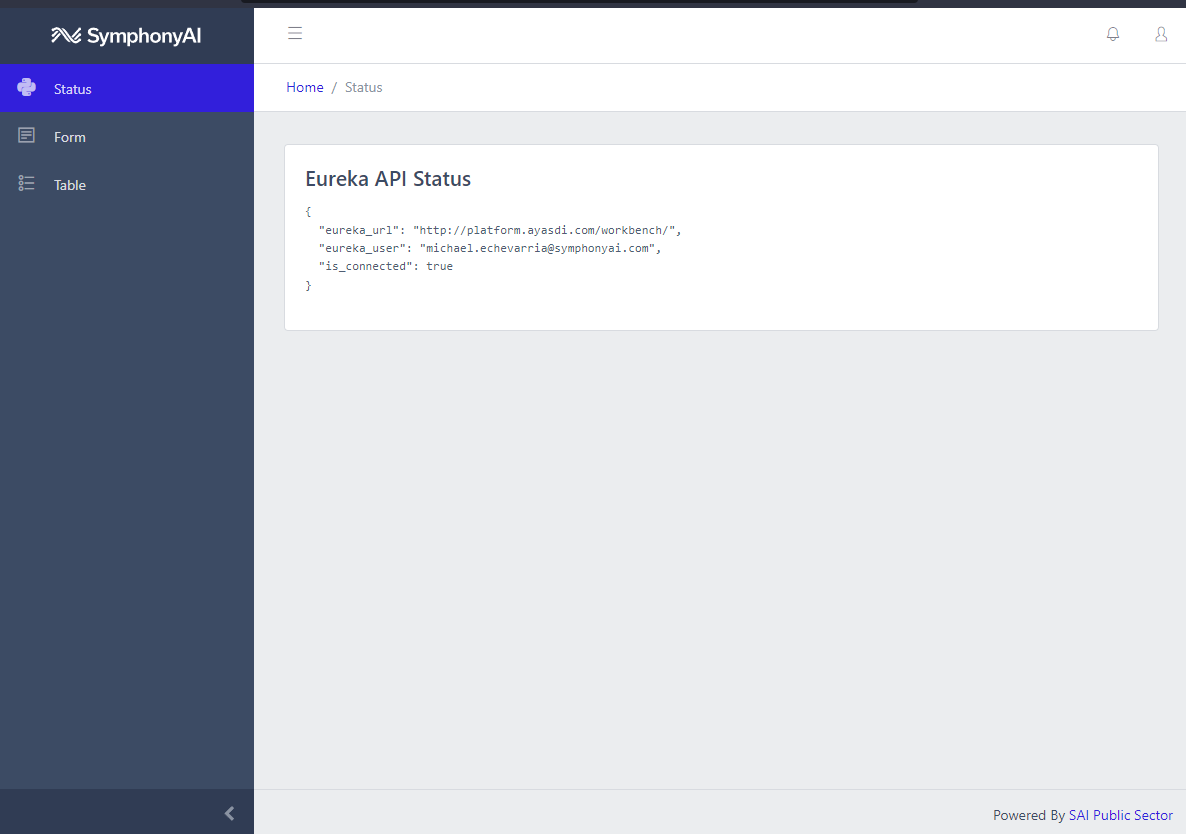
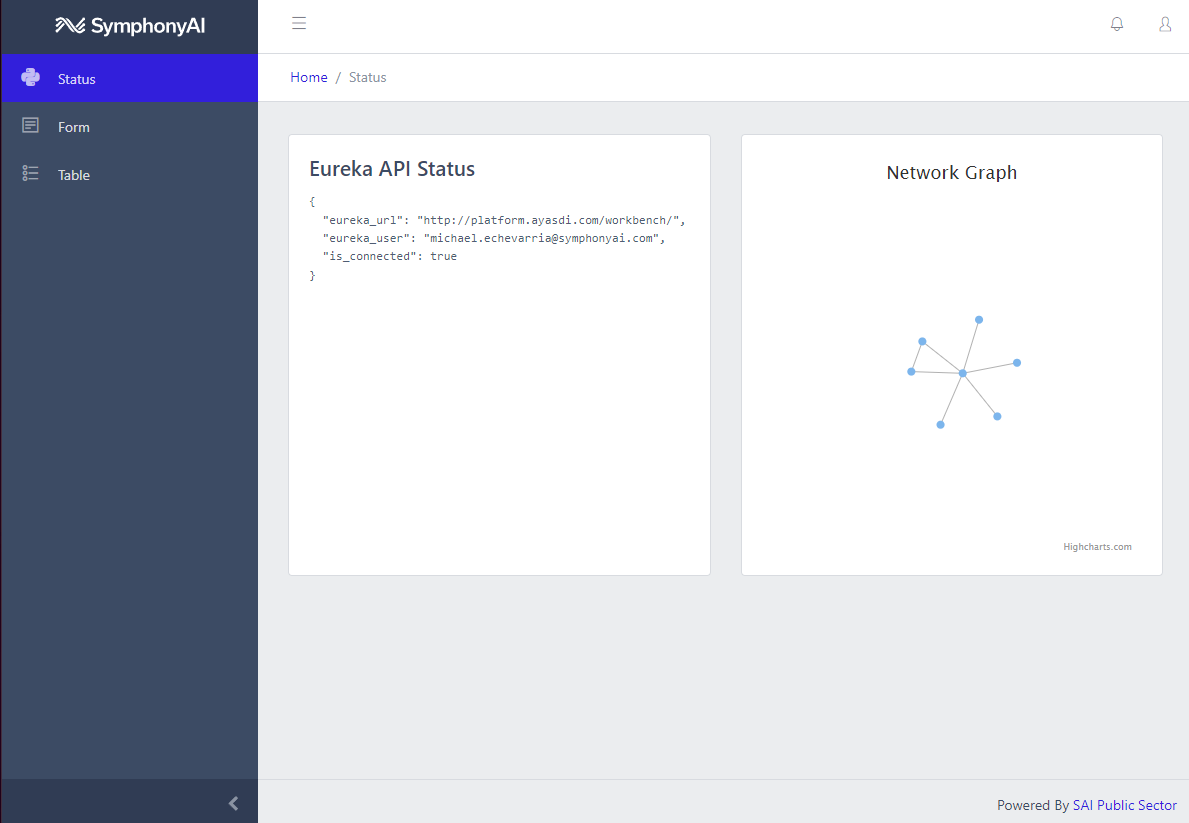
add graph

diff --git a/frontend-vue/src/components/Status.vue b/frontend-vue/src/components/Status.vue
@@ -5,7 +5,14 @@
         <div class="card-body">
           <h4 class="card-title">Eureka API Status</h4>
           <div class="card-text">
-            <pre>{{data}}</pre>
+            <pre>{{ data }}</pre>
+          </div>
+        </div>
+      </div>
+      <div class="card">
+        <div class="card-body">
+          <div class="card-text">
+            <highcharts :options="chartOptions"></highcharts>
           </div>
         </div>
       </div>
@@ -15,16 +22,45 @@
 </template>
 
 <script>
+import { Chart } from 'highcharts-vue'
 import axios from 'axios'
 import msgMixin from '../mixins/msg-mixin'
 
 export default {
   name: 'AppHome',
+  components: {
+    highcharts: Chart
+  },
   mixins: [msgMixin],
   data() {
     return {
       data: [],
-      isBusy: false
+      isBusy: false,
+      chartOptions: {
+        chart: {
+          type: 'networkgraph'
+        },
+        plotOptions: {
+          networkgraph: {
+            keys: ['from', 'to']
+          }
+        },
+        title: {
+          text: 'Network Graph'
+        },
+        series: [{
+          name: 'sample',
+          data: [
+            { from: 'A', to: 'B' },
+            { from: 'A', to: 'C' },
+            { from: 'A', to: 'D' },
+            { from: 'A', to: 'E' },
+            { from: 'A', to: 'F' },
+            { from: 'A', to: 'G' },
+            { from: 'B', to: 'C' }
+          ]
+        }]
+      }
     }
   },
   methods: {
